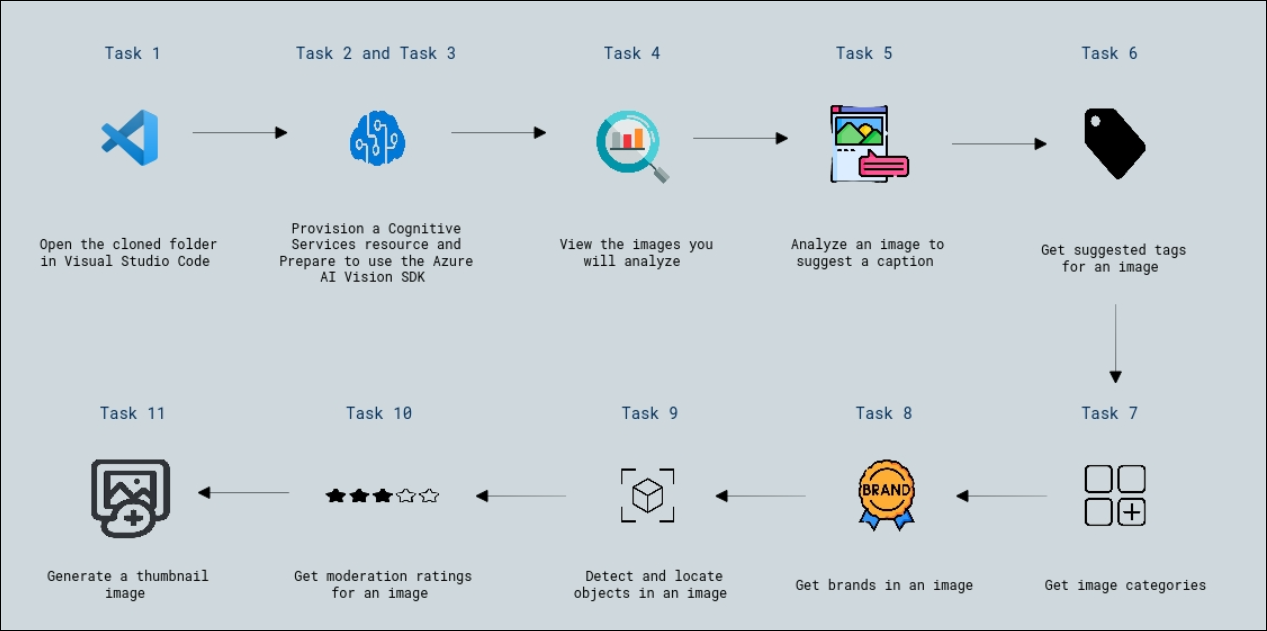
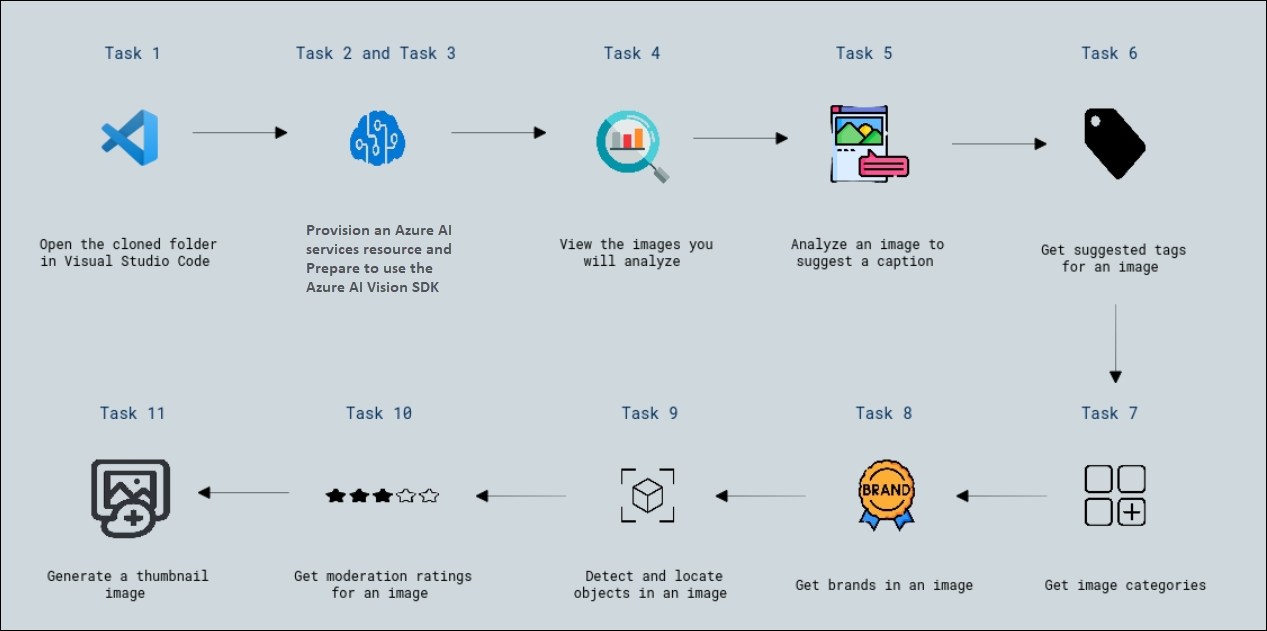
Updated

Changed region(s): [[0.2155, 0.3312, 0.3694, 0.4818]]

diff --git a/Instructions/15-computer-vision.md b/Instructions/15-computer-vision.md
@@ -9,7 +9,7 @@ Azure AI Vision is an artificial intelligence capability that enables software s
 In this lab, you will complete the following tasks:
 
 + Task 1: Open the cloned folder in Visual Studio Code
-+ Task 2: Provision a Azure AI services resource
++ Task 2: Provision an Azure AI services resource
 + Task 3: Prepare to use the Azure AI Vision SDK
 + Task 4: View the images you will analyze
 + Task 5: Analyze an image to suggest a caption
@@ -38,7 +38,7 @@ In this lab, you will complete the following tasks:
   
       **Note:** When **Do you trust the authors of the filesin tjis folder?** prompted select **Yes, I trust the authors**.
 
-## Task 2: Provision a Azure AI services resource
+## Task 2: Provision an Azure AI services resource
 
 If you don't already have one in your subscription, you'll need to provision a **Azure AI Services** resource.
 
